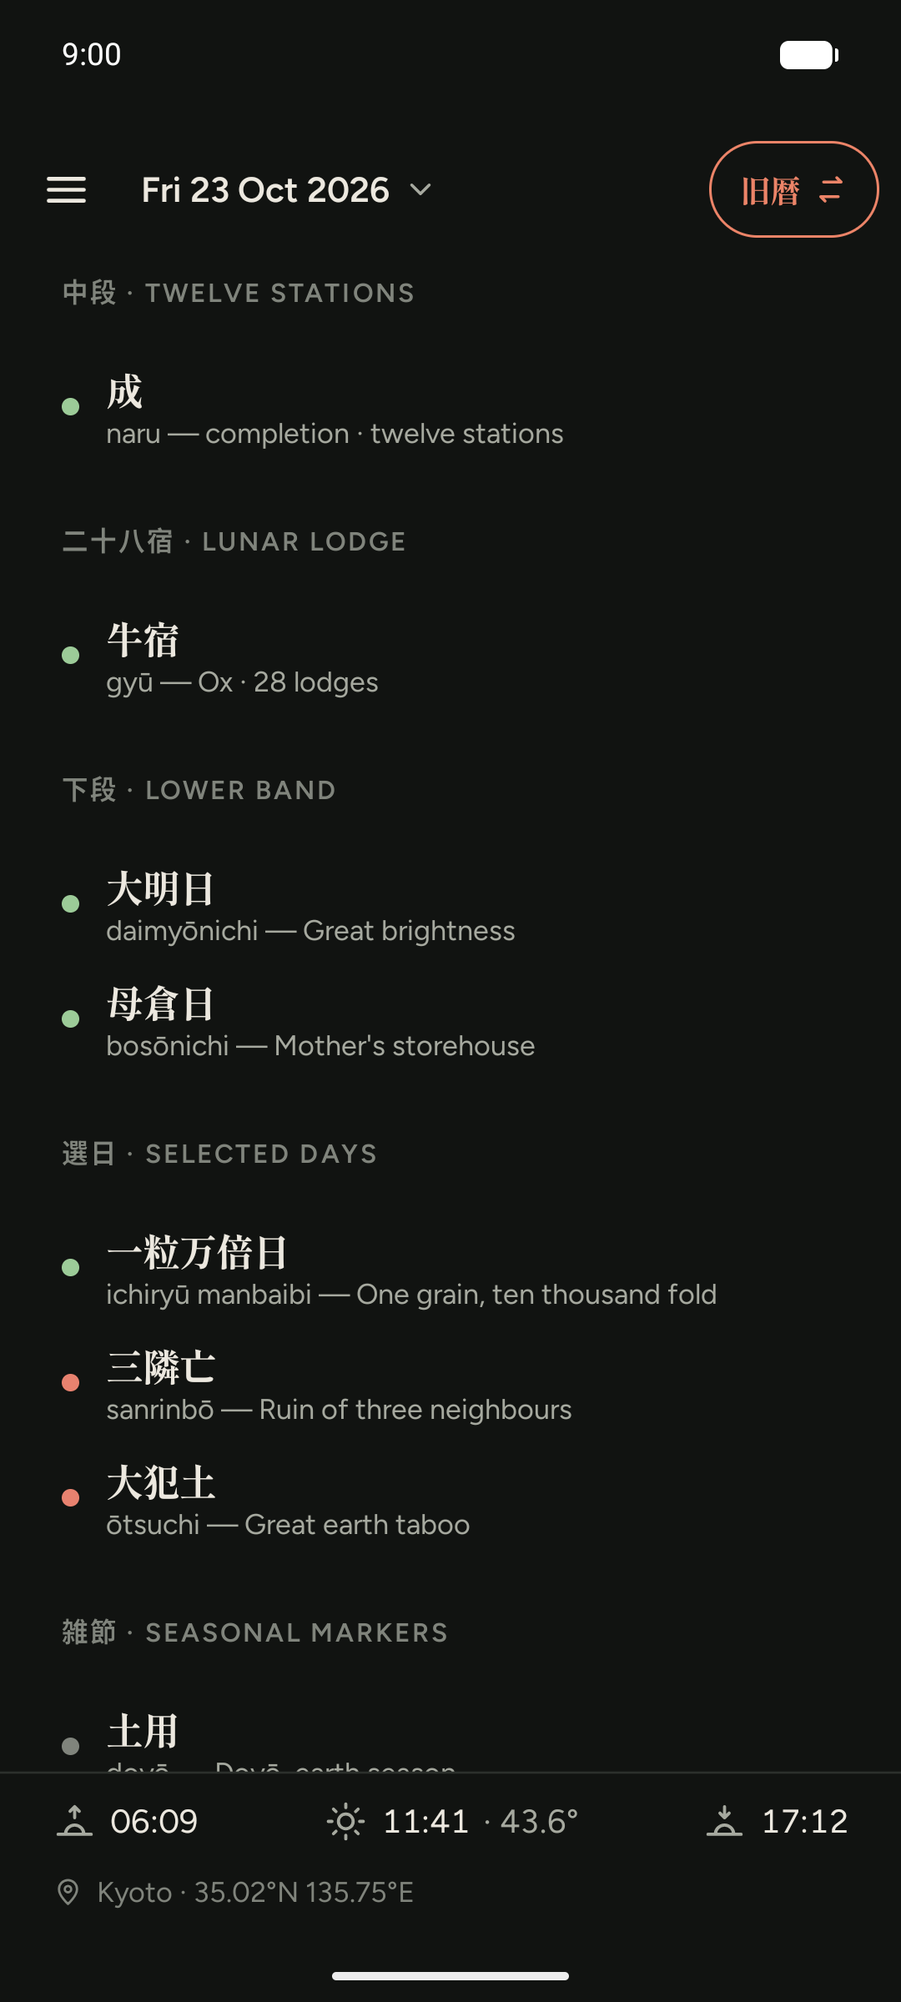
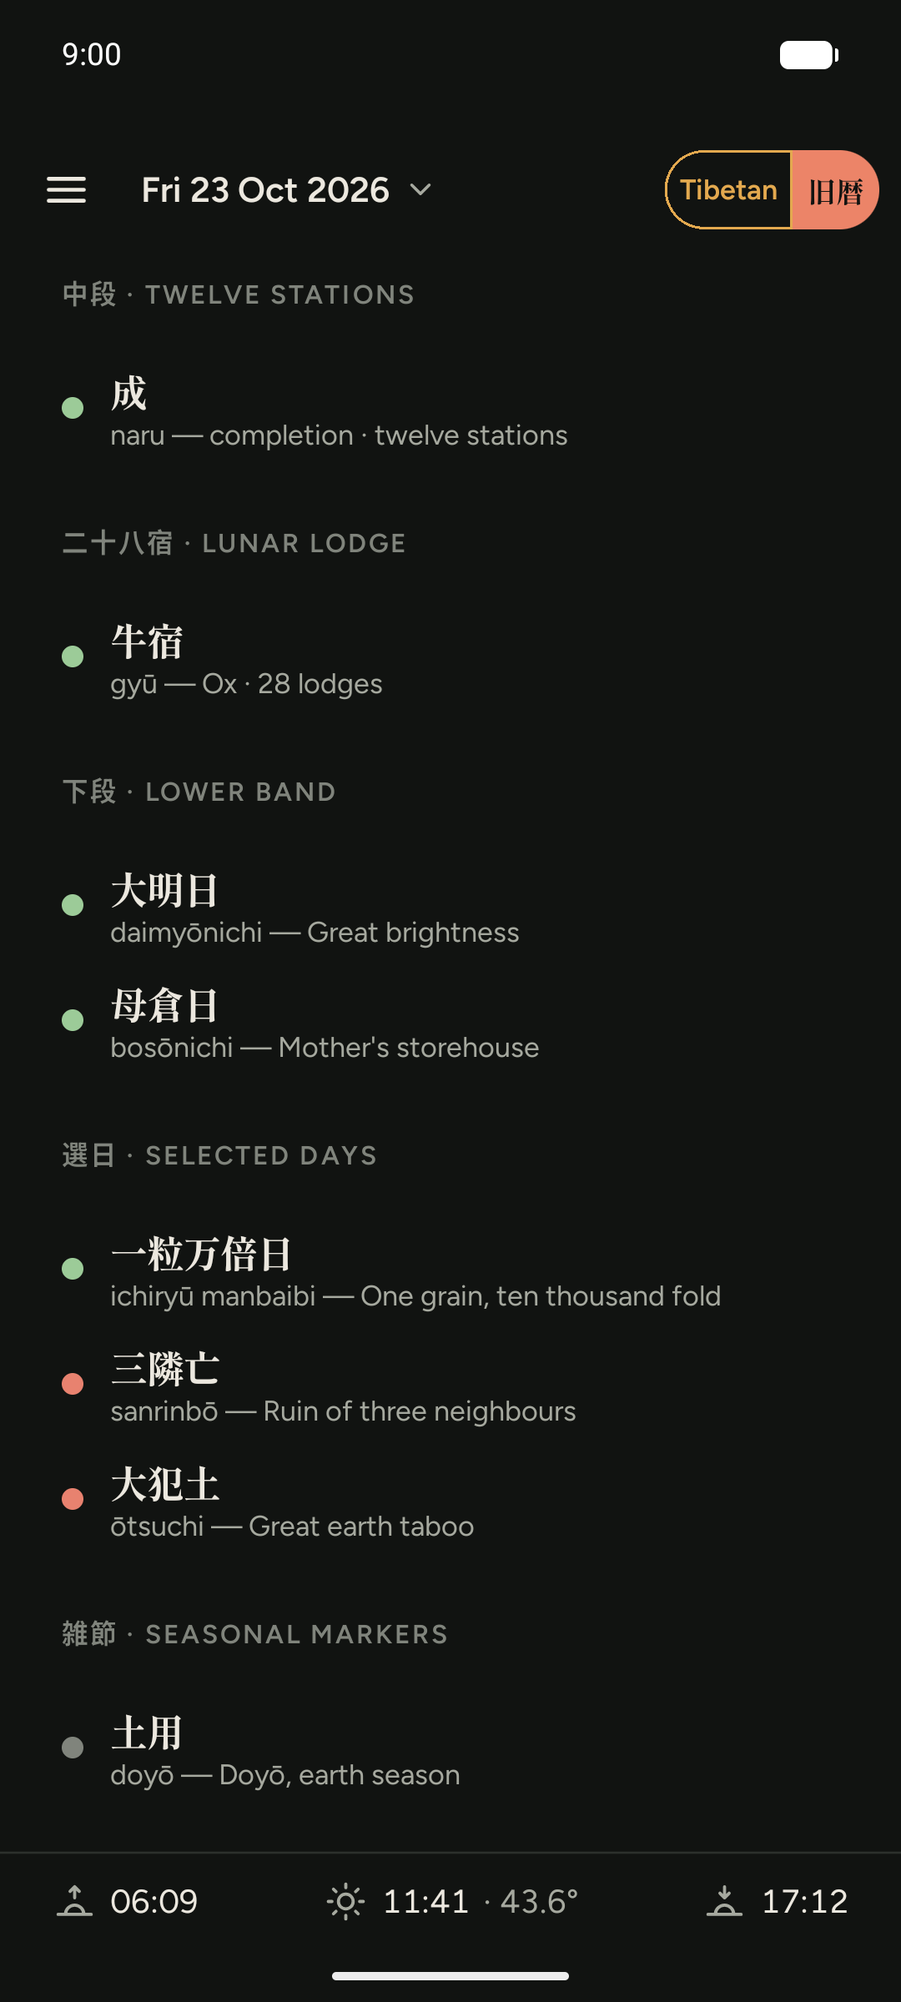
docs: block 34 built, the day page's review items in the SPEC
SPEC §10.2 gains the calendar toggle and the first-run line, §10.5 the
sky line on one line with the place in its balloon, §10.3 the 10 dp
dots and the rule that a second line states the fact (Rāhu's course,
the special days, the burning date as now written), §10.4 and §10.7
the two In brief lines alike, each side under its word and count,
eight glyphs at most, the 旧暦's by DaySummary.familyRow.

ROADMAP: block 34 and U8, U12, U13, U15, U16, U18 marked built with
what was checked; U16 records why the words stand over the sides
rather than before them, U15 and A2 the Russian header that clips at
font scale 1.3 with "Сегодня" and the person ring.

The store shots retaken in both languages (all but the meditation
screen changed: the toggle and the sky line on every page, the brief
row on 1 and 2); shot 1's alt text no longer names Lhasa, which is no
longer on the screen. Every PNG reviewed; the website built and looked
at in both languages, wide and at 390 px.

diff --git a/docs/ROADMAP.md b/docs/ROADMAP.md
@@ -33,7 +33,7 @@ with the one that gives it a use. "Later" is not ranked.
 | 12 | H1–H2 The health screen | L | A screen of its own from the menu, with Tibetan medicine beside WB (Dr. Nida Chenagtsang, trusted by the owner): the element's mansions by the life force (left by T2.19), the la's place, vitality and body, the day's illness readings, then WB's illness reckoning | T2.27; R1 for H2 |
 | 13 | P1–P3 Relatives, the obstacles that need them, the bride's departure | L | The readings T4 left for want of other people's dates, and WB ch. 23's bride's departure, on relatives added to each saved person | P1 first |
 | 14 | R The reckonings, a section of their own | XL | WB's pebble divinations, chapters 20–30, in a menu section as Meditation has; the year of age moves there | R1 first; P1 for those that need relatives |
-| 15 | U8–U18 The UX review of 2026-10-11 | M | Eleven small items, each S, none changing a side, a tone or a reading: the sky line as one line, the date picker's jump, the brief's rows in the 旧暦 brief's form, the hours in short form, dots that read, second lines that state the fact, the election's civil dates, the calendar toggle, the two briefs alike, the bell's time picker, a first-run line | — |
+| 15 | U8–U18 The UX review of 2026-10-11 | M | Eleven small items, each S, none changing a side, a tone or a reading: the sky line as one line, the date picker's jump, the brief's rows in the 旧暦 brief's form, the hours in short form, dots that read, second lines that state the fact, the election's civil dates, the calendar toggle, the two briefs alike, the bell's time picker, a first-run line; the day page's six (block 34) built 2026-10-11 | — |
 | 16 | N1 The morning notice | S | One notification a day with the brief's tone, reason and hours, on the bell's alarms (SPEC §10.9); SPEC §3 moves it into scope | U11, for the hours' short form |
 | 17 | A2 Large font and landscape | M | The page at font scale 1.5 and 2.0, in landscape and on a tablet: labels at 12 sp least, label columns measured, two columns or a capped width, diagrams that scale | U8–U18 and X2, so the rows and the sheets' label column it measures are final |
 | 18 | W1 The widget | M | A Glance widget in two sizes with the day's tone, its reason and the hours; SPEC §10.6 written | A1 (the theme), U8–U18 (the header and rows), U11 (the hours' short form) |
@@ -85,7 +85,7 @@ moves up as soon as it is unblocked.
 | <a id="block-31"></a>31 | [R2](#r)… The reckonings one by one | [RD12](#rd12), [RD13](#rd13), [RD15](#rd15), [RD16](#rd16), [RD17](#rd17), each for its reckoning | [28](#block-28); [27](#block-27) for those that need relatives | Build block 31: the next reckoning of R1's list. |
 | <a id="block-32"></a>32 | [H2](#h2) The illness reckoning | [RD12](#rd12), [RD8](#rd8) | [26](#block-26), [28](#block-28) | Build block 32: H2, the illness reckoning on the Health screen, from RD12. |
 | <a id="block-33"></a>33 | [A1](#a1) Light theme and colour themes, the first four | — | [34](#block-34), [42](#block-42), so the screenshots are retaken once | Build block 33: A1, the palette as a theme chosen in Settings: System, Ink (the default), Paper and Night, with the review's checks, the light screen first. |
-| <a id="block-34"></a>34 | [U8](#u8) + [U12](#u12) + [U13](#u13) + [U15](#u15) + [U16](#u16) + [U18](#u18) — the day page | — | — | Build block 34: the day page's review items, the sky line as one line, dots that read, second lines that state the fact, the calendar toggle, the two briefs alike and the first-run line. |
+| <a id="block-34"></a>34 | [U8](#u8) + [U12](#u12) + [U13](#u13) + [U15](#u15) + [U16](#u16) + [U18](#u18) — the day page — built 2026-10-11 | — | — | Build block 34: the day page's review items, the sky line as one line, dots that read, second lines that state the fact, the calendar toggle, the two briefs alike and the first-run line. |
 | <a id="block-35"></a>35 | [U9](#u9) + [U17](#u17) — the pickers | — | — | Build block 35: U9 and U17, the date picker's year and month jump and the bell's time picker. |
 | <a id="block-36"></a>36 | [U10](#u10) + [U11](#u11) — the brief's rows and the hours in short form | — | — | Build block 36: U10 and U11, the Tibetan brief's rows in the 旧暦 brief's form and the hours row in short form. |
 | <a id="block-37"></a>37 | [U14](#u14) The election's civil dates | — | — | Build block 37: U14, the civil day in every cell of the election's grid and the voices line only where a voice stands beside the deciding one. |
@@ -1346,7 +1346,7 @@ first-run line and a notice are interface text (SPEC §8 does not apply).
 The blocks are [34](#block-34) to [37](#block-37), by screen; A2, N1 and
 W1 build on them (below).
 
-#### <a id="u8"></a>U8 The sky line as one line
+#### <a id="u8"></a>U8 The sky line as one line — built 2026-10-11 (SPEC §10.2, §10.5)
 
 - **Gap.** The sky line is pinned under both pages at every scroll
   position: three times with their icons on one line, the place on a
@@ -1364,6 +1364,10 @@ W1 build on them (below).
   font scale 1.0 and 1.3 show one line; the balloon's action opens the
   location screen; SPEC §10.2 and §10.5; store shots 1, 2 and 4 retaken
   in both languages.
+- **Built** 2026-10-11 as planned, the line 44 dp; its balloon gives the
+  place alone, with "Change location →", which opens the location screen.
+  Checked on the emulator in English and Russian at font scale 1.0 and
+  1.3 (11 October 2026, Kyoto); store shots retaken.
 
 #### <a id="u9"></a>U9 The date picker's jump
 
@@ -1412,7 +1416,7 @@ W1 build on them (below).
   a tap on a run opens the panel at its hour; `HoursRow`'s description
   gives the full times; SPEC §10.3.
 
-#### <a id="u12"></a>U12 Dots that read
+#### <a id="u12"></a>U12 Dots that read — built 2026-10-11 (SPEC §10.3)
 
 - **Gap.** The Almanac's outline dots (U6) are 8 dp with a 1.5 dp ring;
   on the ink page the mixed outline beside "Sunday" hardly shows, so the
@@ -1428,8 +1432,15 @@ W1 build on them (below).
   on the emulator in English and Russian, the ring told from the solid
   dot at a glance; the Russian labels still fit beside the wider dots;
   SPEC §10.3.
+- **Built** 2026-10-11: `ToneDot` 10 dp, its ring a fifth of its size,
+  drawn wherever a tone is: the Almanac, Your day, the brief's sheet, the
+  hours panel's rows, the election's list and grid (8 dp in the grid's
+  cells, the person's days to avoid as rings) and the lunar dates' grid.
+  `PaletteTest` holds every tone 3:1 on ink, surface and raised (the
+  neutral faint, the weakest, 3.98:1 on raised). Checked on 11 October
+  2026 and the election for marriage talks, English and Russian.
 
-#### <a id="u13"></a>U13 Second lines that state the fact
+#### <a id="u13"></a>U13 Second lines that state the fact — built 2026-10-11 (SPEC §10.3)
 
 - **Gap.** Some rows' second lines describe their sheet rather than state
   the fact: Rāhu's course says "date 1: where Rāhu moves, and what the
@@ -1448,6 +1459,11 @@ W1 build on them (below).
 - **Done when.** The rows of both pages listed with their second lines
   before and after, in the commit; SPEC §10.3's wording; `CatalogTest`
   and `TranslationsTest`; both languages on the emulator.
+- **Built** 2026-10-11. The pass found four rows that named their sheet,
+  all on the Tibetan page: Rāhu's course by date (detailed and general),
+  the special day, the Vajra Treatise's special day and the burning date;
+  the commit lists them before and after. Every other row's second line,
+  on both pages, is a kind and gloss or a fact and stays.
 
 #### <a id="u14"></a>U14 The election's civil dates and voices line
 
@@ -1467,7 +1483,7 @@ W1 build on them (below).
   English and Russian; a doubled and a skipped date checked in the grid;
   SPEC §10.8.
 
-#### <a id="u15"></a>U15 The calendar toggle in the header
+#### <a id="u15"></a>U15 The calendar toggle in the header — built 2026-10-11 (SPEC §10.2)
 
 - **Gap.** The header's pill names the calendar shown, "Tibetan", with a
   swap icon; read as a button it says either "this is Tibetan" or "go to
@@ -1480,8 +1496,14 @@ W1 build on them (below).
 - **Block.** [34](#block-34); no reading; waits on no build.
 - **Done when.** Both languages on the emulator; store shots 1–7 retaken
   in both languages (every one shows the header); SPEC §10.2.
+- **Built** 2026-10-11, each segment 44 dp high to the touch and drawn
+  36 dp, its padding cut to 7 dp so that the toggle is the pill's width,
+  117 dp in Russian at font scale 1.0. In Russian with "Сегодня" and the
+  person ring shown the date beside it wraps to two lines at 1.0 and
+  clips at 1.3, as it all but did beside the pill: A2's short date
+  pattern is for that.
 
-#### <a id="u16"></a>U16 The two briefs alike
+#### <a id="u16"></a>U16 The two briefs alike — built 2026-10-11 (SPEC §10.4, §10.7)
 
 - **Gap.** The 旧暦's In brief row writes "good" and "avoid" beside its
   glyphs and shows every family, up to three lines on a busy day; the
@@ -1498,6 +1520,14 @@ W1 build on them (below).
 - **Done when.** Both rows on the emulator in English and Russian at font
   scale 1.0 and 1.3, the labels and eight glyphs within 411 dp; store
   shots 1 and 2 retaken; SPEC §10.4 and §10.7.
+- **Built** 2026-10-11 with one change to the plan: the word and count
+  stand over each side's glyphs ("good 62" over the good side, "avoid 35"
+  over the other) rather than before the glyphs with the counts at the
+  row's end, since words before the glyphs and counts after them leave
+  fewer than eight places at font scale 1.3 in Russian ("избегать 35");
+  the rule between the sides went, the words parting them. The 旧暦's
+  cap is `DaySummary.familyRow`, tested over 2026. Checked on both pages
+  in English and Russian at 1.0 and 1.3.
 
 #### <a id="u17"></a>U17 The bell's time picker
 
@@ -1511,7 +1541,7 @@ W1 build on them (below).
   a time set by the picker rounds to the half hour and the switch's
   subtitle names the next bell from it; `BellTest`; SPEC §10.9.
 
-#### <a id="u18"></a>U18 A first-run line
+#### <a id="u18"></a>U18 A first-run line — built 2026-10-11 (SPEC §10.2)
 
 - **Gap.** Nothing introduces the page: a first-run reader meets
   "Kiṃstughna", outline dots and "decides" without a word; the dots and
@@ -1526,6 +1556,12 @@ W1 build on them (below).
 - **Done when.** A fresh install on the emulator shows the line three
   times on each page and not a fourth, and not after a tap on it; both
   languages; `TranslationsTest`; SPEC §10.2.
+- **Built** 2026-10-11: an open is counted once a launch when the page is
+  first shown, kept across turning the phone; `first_run_tibetan` and
+  `first_run_kyureki` in the preferences, and `tools/emulator/emu.py`
+  writes them as 3 so that tours and store shots do not show the line.
+  Checked from a fresh counter: three opens of each page show it, the
+  fourth not, a tap puts it away; English and Russian.
 
 ### <a id="x"></a>X1–X10. The readings' wording — planned 2026-10-11
 
@@ -2329,7 +2365,8 @@ on Tibetan medicine (*gso ba rig pa*) beside WB (the owner, 2026-10-11).
   phone. At 1.3 it holds (the review of 2026-10-11): the month heading
   and the hours list wrap, nothing clips. But the strip's hour labels
   are 10 sp, the Lunar day label column is a fixed 120 dp, the header's
-  date meets the calendar pill at larger scales, and nothing has been
+  date meets the calendar toggle at larger scales (in Russian with
+  "Сегодня" and the person ring it clips at 1.3, found building U15), and nothing has been
   looked at at 1.5 or 2.0, in landscape or on a tablet, where the pager's
   page is 800 dp wide and the sheets' diagrams stay 280 dp.
 - **Work.** Labels at 12 sp at least; label columns by the widest label

diff --git a/docs/SPEC.md b/docs/SPEC.md
@@ -1851,8 +1851,13 @@ canvas "Zanshin Calendar — basic design".
 
 - Opens on today, in the **calendar last viewed**.
 - **Swipe left/right** moves one day.
-- **Switching calendars:** two entries at the top of the side menu, and a tap
-  on the calendar's name in the header switches directly.
+- **Switching calendars:** two entries at the top of the side menu, and in
+  the header a toggle of two segments, "Tibetan | 旧暦" (ROADMAP U15, built
+  2026-10-11): the calendar shown filled in its accent, saffron or
+  vermilion, the other outlined in its own; a tap on the other switches.
+  Screen readers get the two as tabs, the shown one selected. Until U15 the
+  header held a pill naming the calendar shown with a swap icon, which read
+  either as "this is Tibetan" or as "go to Tibetan".
 - **Switching people:** once two or more people are saved (§10.5), the
   header holds a ring with the chosen person's initials (the person glyph
   for a name left blank or for no one), between the date and the calendar's
@@ -1863,6 +1868,15 @@ canvas "Zanshin Calendar — basic design".
   of §10.4, with a legend whose kanji translate on tap.
 - Festivals and holidays carry a line glyph drawn for this app.
 - **Local sky line** at the bottom of both calendars (§10.5).
+- **First-run line** (ROADMAP U18, built 2026-10-11): under the In brief
+  row, on the first three opens of each page, one line that can be put
+  away: on the Tibetan page "Tap any row for its reading; the solid dot
+  decides the day", on the 旧暦 page "Tap any row for its reading; every
+  kanji shows its English on tap". An open is counted once a launch, when
+  the page is first shown (turning the phone is not another); the line is
+  gone after the third open or a tap on it, a counter per page
+  (`first_run_tibetan`, `first_run_kyureki`). Interface text, not a
+  reading (§8 does not apply).
 
 ### 10.3 Tibetan view
 
@@ -1933,8 +1947,8 @@ canvas "Zanshin Calendar — basic design".
   the day names: the families of the heaviest works good and of the
   heaviest to avoid, weighed as §5.12 says (§10.7), with the day's tone and, in a few words, what decided it
   ("a lucky day · by the combination", "an unlucky day · by Tuesday",
-  the factor named as the weighing found it, §5.12); after the glyphs, how many works
-  the day names good and to avoid ("good 53", "avoid 36"), since the row
+  the factor named as the weighing found it, §5.12); over each side's glyphs, how many works
+  the day names good and to avoid ("good 53", "avoid 36"; §10.7), since the row
   cannot show the proportion and on 11 % of days the lists run against
   the tone (§5.12; decided by the owner, 2026-10-07); it opens the tone with its
   reason and, under it, the rule in a sentence (ROADMAP U6): that each
@@ -1998,7 +2012,9 @@ canvas "Zanshin Calendar — basic design".
   and the element pair with the grid of the ten. The section's heading
   names what decides the day ("Almanac · by the combination", "by
   Tuesday"; ROADMAP U6), and only the deciding voice's dot is solid: every
-  other row's dot is an outline, "not deciding today" to a screen reader,
+  other row's dot is an outline (10 dp with a 2 dp ring, ROADMAP U12, built
+  2026-10-11; 8 dp with a 1.5 dp ring until then, which hardly showed on
+  the ink page), "not deciding today" to a screen reader,
   and its sheet says under the gloss that its tone does not decide the
   day and that its lists still decide the works they name that no
   stronger factor names (`Annotation.outline`), so that the column of
@@ -2055,7 +2071,19 @@ canvas "Zanshin Calendar — basic design".
   row's second line says only what it is; the rest is in its sheet. The
   *bla mkhyen* row gives the direction alone (its sme ba in the sheet),
   the earth lords' courses row the courses' names ("Namkyi Nakpo · The
-  sky door"), what each does today in the sheet.
+  sky door"), what each does today in the sheet. A second line states the
+  fact, never what its sheet holds (ROADMAP U13, built 2026-10-11): Rāhu's
+  course by date gives the course as its compass draws it ("south-west →
+  north-east", on the 14th "from the sky into the lake", on the 30th
+  "every direction"; whether the course is the detailed or the general is
+  in the compass's caption), a special day what makes it ("Sunday +
+  Hasta", the Vajra Treatise's days too, whose reckoning their reading
+  names), the burning date its weekday and date ("Tuesday + Lunar date
+  3"). Until U13 they read "date 1: where Rāhu moves, and what the day is
+  good for", "special day of weekday and mansion: Sunday + Hasta" and
+  "burning date of weekday and date: …". The kind-and-gloss lines stay
+  ("lunar mansion: the hand", "karaṇa: unpleasant"; on the 旧暦 page
+  "naru — completion · twelve stations"): the gloss is the fact.
 - **Times within the day** (§5.8): the mansion row's subtitle adds a
   second mansion that comes by daylight ("then Uttaraphalgunī from
   16:30"), the yoga row a skipped yoga ("and Vajra 09:01–04:06, skipped"),
@@ -2171,7 +2199,9 @@ canvas "Zanshin Calendar — basic design".
 - **In brief:** a line under the rokuyō (and under the day mark) shows the
   glyphs of the activity families the day's annotations name good and to
   avoid (§10.7), a family in the mixed colour when one of its activities is
-  named both ways; screen readers hear the counts. It opens the breakdown. The breakdown lists each activity
+  named both ways, each side under its word and count as on the Tibetan
+  page ("good 10", "avoid 17"), eight glyphs at most (ROADMAP U16, built
+  2026-10-11); screen readers hear the counts. It opens the breakdown. The breakdown lists each activity
   with the annotations that name it, the annotations by tone, the day mark, and
   for the owner the 三箇の悪日 and the 九星気学 relation, and the annotations
   set aside by the lower band's rules (§7.5) under the one that sets them
@@ -2250,8 +2280,14 @@ canvas "Zanshin Calendar — basic design".
 - **Nine-star reading**, a switch, off by default: adds the 九星気学 row of
   §10.4. Switching it on with no one chosen asks for a person (the list, or
   adding one when none is saved); cancelling leaves it off.
-- **Local sky line:** sunrise, sunset, true solar noon (the sun's transit, not
-  12:00) and the sun's altitude then. Facts only.
+- **Local sky line:** sunrise, true solar noon (the sun's transit, not
+  12:00) with the sun's altitude then, and sunset, each with its icon, on
+  one line of 44 dp pinned under the page (ROADMAP U8, built 2026-10-11).
+  Facts only, read once a day, so the line keeps to a twentieth of the
+  screen: the place is not on it but in the balloon a tap on the line
+  opens, with "Change location" as its action. With no place set the line
+  says "Set a location for sunrise and sunset" and opens the location
+  screen. Until U8 the place stood on a second line, the two about 110 dp.
 - **Choose a day**, under the two calendars: the election (§10.8) of the
   calendar shown, from the shown day, its work not yet picked.
 
@@ -2283,20 +2319,28 @@ last tapped, today's at first (§10.1: every kanji shows its English on tap).
   offerings*, after Klong chen pa and Beyer, *The Cult of Tārā*, pp.
   264–275). The rites' vajra is drawn upright, as it read as a chain of rings
   at 22 dp. The breakdown puts each activity's family glyph before it.
-- **In brief line.** On the 旧暦 page the families named good and to avoid,
-  in the order the enum declares, on two lines. On the Tibetan page one row
-  (`DaySummary.row`): the families of the heaviest works named good, a rule,
-  then those of the heaviest to avoid (§5.12 gives the weights); four places
-  each, a side with fewer families leaving its places to the other, eight
-  at most and as many as fit the width. A family appears once: where it
-  would stand on both sides, it keeps the side of its heavier work and the
-  next family takes the other place. Equal weights keep the breakdown's
-  order. At the row's end the two counts, how many works the day names
-  good and to avoid, one above the other in their colours, so that they
-  leave the glyphs their eight places on a 411 dp screen in English and
-  Russian. Screen readers hear the counts and the works the row stands for.
+- **In brief line.** Both pages alike (ROADMAP U16, built 2026-10-11): one
+  row of glyphs, the families named good, then those to avoid, each side
+  under its word and its count in its tone ("good 53", "avoid 36"; on the
+  person's enemy weekday or death mansion the avoid side alone); four
+  places a side, a side with fewer families leaving its places to the
+  other, eight at most and as many as fit the width. The words and counts
+  stand over their sides rather than before them, so that the eight
+  glyphs keep the width at font scale 1.3 in Russian ("избегать 35").
+  On the Tibetan page (`DaySummary.row`) the families of the heaviest
+  works (§5.12 gives the weights); a family appears once: where it would
+  stand on both sides, it keeps the side of its heavier work and the next
+  family takes the other place; equal weights keep the breakdown's order.
   Measured over 2000–2049: four and four on 92 % of days, about six of the
-  eight glyphs change from one day to the next.
+  eight glyphs change from one day to the next. On the 旧暦 page
+  (`DaySummary.familyRow`) the first families in the order the enum
+  declares: a count, not a rank, since no weight enters the 旧暦 (§10.4);
+  a family named both ways stands on both sides in the mixed colour, and
+  the breakdown keeps every family. Until U16 the 旧暦 line gave every
+  family on two lines with "good" and "avoid" before them, and the
+  Tibetan row no word, a rule between its sides and the counts at its
+  end. Screen readers hear the counts and, on the Tibetan page, the works
+  the row stands for.
 - **Animals and elements.** The twelve animals are drawn as heads (whole
   bodies were indistinguishable at 20 dp), shared by the 干支 rows and the
   Tibetan year, day and lunar-day animal; the five elements (Tibetan iron
